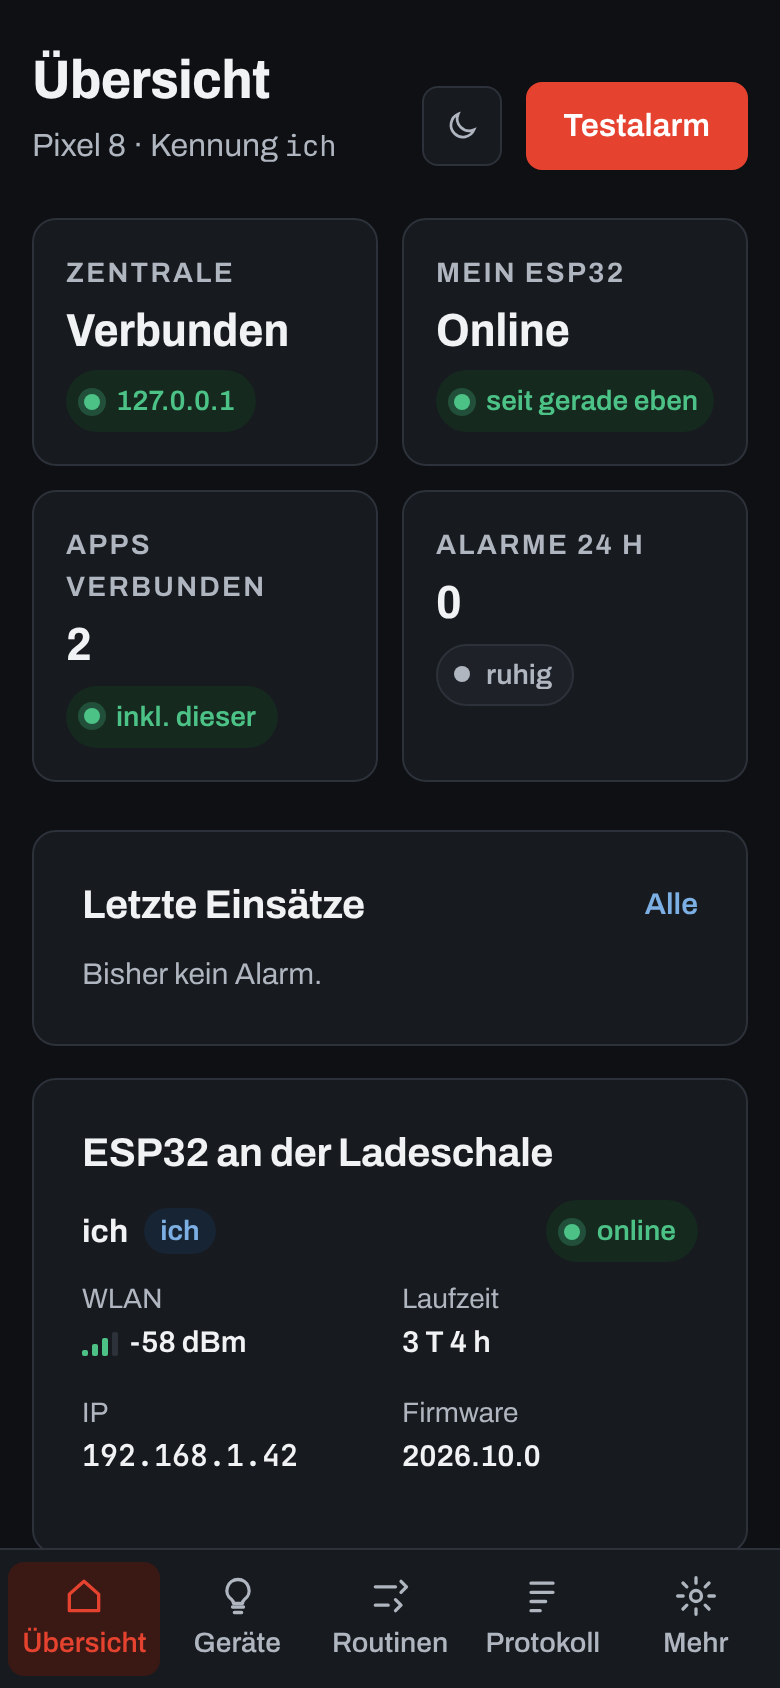
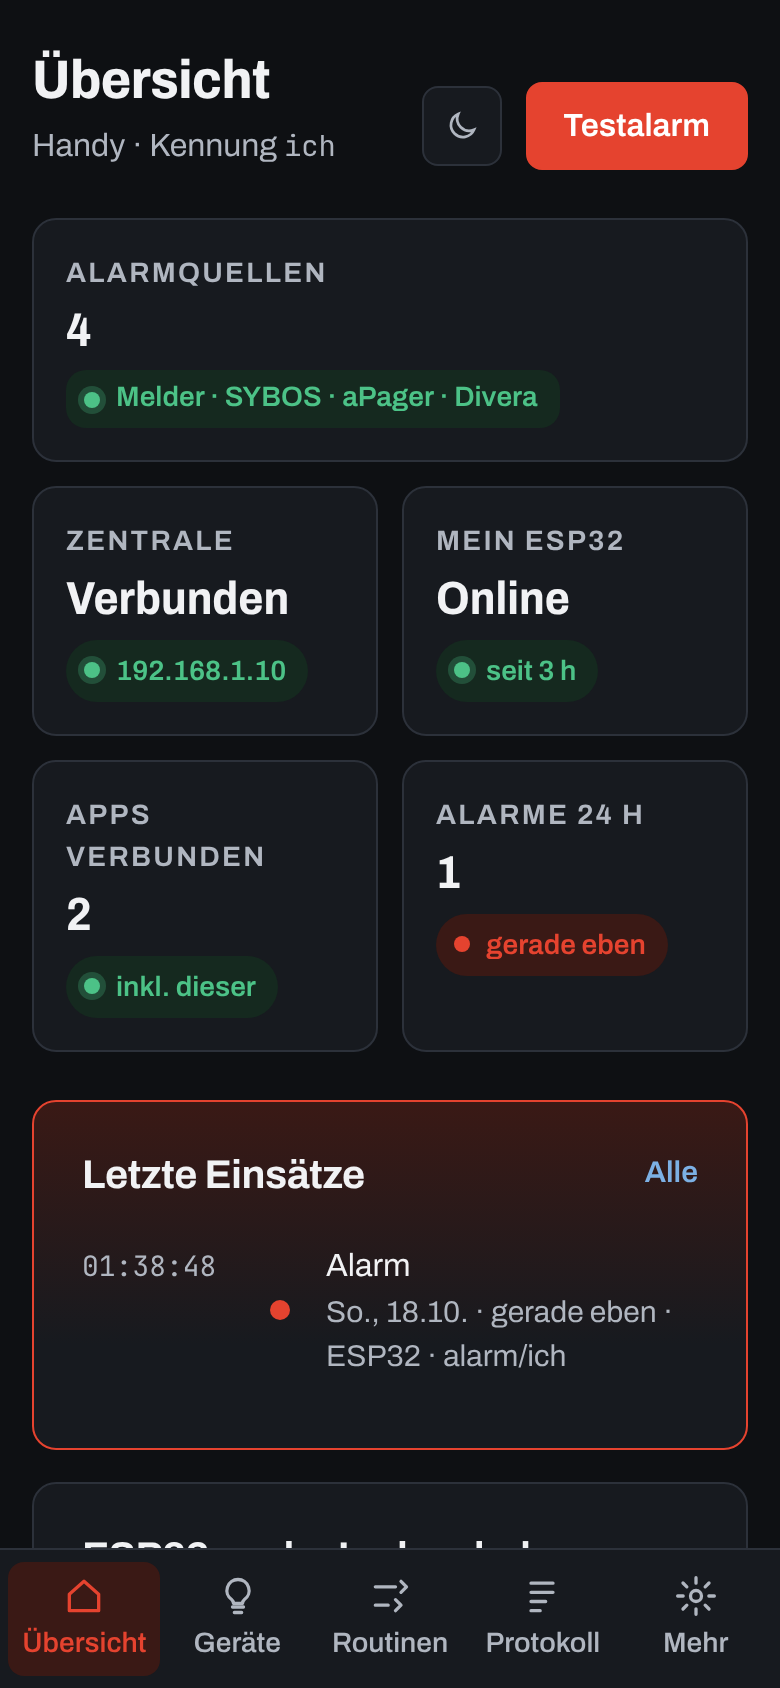
README neu: Ablaufgrafik, Funktionen, Installation, Entwickeln-Grafik; aktuelle Screenshots; Kacheln passen sich an
Claude-Session: https://claude.ai/code/session_01JYYAoFyVYRx5G4qfdyaN7t

diff --git a/app/src/styles/components.css b/app/src/styles/components.css
@@ -75,12 +75,12 @@
 @media (max-width: 760px) { .toast { bottom: calc(88px + env(safe-area-inset-bottom)); } }
 
 /* ── Dashboard ───────────────────────────────── */
-.tiles { display: grid; gap: var(--s3); grid-template-columns: repeat(4, minmax(0, 1fr)); }
+.tiles { display: grid; gap: var(--s3); grid-template-columns: repeat(auto-fit, minmax(min(100%, 180px), 1fr)); }
 .tile { background: var(--surface); border: 1px solid var(--line); border-radius: var(--radius); padding: var(--s4); display: grid; gap: 6px; align-content: start; box-shadow: var(--shadow); min-width: 0; }
 .tile-label { font-size: var(--fs-xs); font-weight: 650; letter-spacing: .08em; text-transform: uppercase; color: var(--text-2); }
 .tile b { font-size: 1.45rem; font-weight: 720; font-variation-settings: "wdth" 90; line-height: 1.15; }
 .tile .chip { justify-self: start; max-width: 100%; overflow: hidden; text-overflow: ellipsis; }
-@media (max-width: 1180px) { .tiles { grid-template-columns: repeat(2, minmax(0, 1fr)); } }
+@media (max-width: 560px) { .tiles { grid-template-columns: repeat(2, minmax(0, 1fr)); } }
 
 .dash { display: grid; gap: var(--s4); grid-template-columns: minmax(0, 1.6fr) minmax(0, 1fr); align-items: start; }
 .dash-main, .dash-side { display: grid; gap: var(--s4); min-width: 0; }
@@ -226,3 +226,6 @@ details.more > .field { margin-top: var(--s3); }
 .source-body .group:first-child { padding-top: 0; }
 .group-cont { margin-top: 0; }
 .nav-item[hidden] { display: none !important; }
+.tile .chip.wrap { white-space: normal; line-height: 1.35; }
+.tile .chip.wrap { border-radius: 10px; }
+@media (max-width: 560px) { .tiles > .tile:first-child { grid-column: 1 / -1; } }

diff --git a/app/src/views/overview.js b/app/src/views/overview.js
@@ -49,7 +49,7 @@ function tiles() {
   const alarms24 = getLog("alarm").filter((e) => Date.now() - e.ts < 86400e3).length;
   const src = activeSources();
   return h("div.tiles", {},
-    tile("Alarmquellen", src.length ? String(src.length) : "Keine", chip(src.length ? "ok" : "", src.length ? src.join(" · ") : "nicht eingerichtet")),
+    tile("Alarmquellen", src.length ? String(src.length) : "Keine", h("span.chip.wrap" + (src.length ? ".ok" : ""), {}, src.length ? src.join(" · ") : "nicht eingerichtet")),
     has.pi() && tile("Zentrale", state.connected ? "Verbunden" : isConfigured() ? "Getrennt" : "Fehlt",
       state.connected ? chip("ok", s.broker.host || "aktiv") : chip(isConfigured() ? "bad" : "", isConfigured() ? "nicht erreichbar" : "nicht eingerichtet")),
     has.esp() && tile("Mein ESP32", !dev || dev.online === null ? "Kein Signal" : dev.online ? "Online" : "Offline",

diff --git a/README.md b/README.md
@@ -7,15 +7,13 @@
 
 ## Was ist Heimalarm?
 
-Heimalarm ist für Einsatzkräfte der Feuerwehr gedacht, die zuhause alarmiert werden. Wenn der Melder in der Ladeschale auslöst, reagiert das Zuhause mit:
+Heimalarm ist für Einsatzkräfte, die zuhause alarmiert werden – egal ob Feuerwehr, Rettungsdienst, THW oder Katastrophenschutz. Wenn der Alarm kommt, reagiert das Zuhause mit:
 
 - **PC:** Ein Vollbild fragt „Fährst du?“. Ohne Gegenrede geht der PC in den Ruhezustand – offene Programme bleiben erhalten.
-- **Licht & Geräte:** Routinen schalten z. B. nachts das Flurlicht gedimmt an.
-- **Handy:** Benachrichtigung, Übersicht und Steuerung von unterwegs im Heimnetz.
-- **Alarm-Apps:** SYBOS, aPager PRO und Divera 24/7 als zusätzliche Quellen – auch mehrere gleichzeitig. Bei Divera setzt „Ich fahre“ auf Wunsch deinen Status.
-- **Alexa & Google Home:** Alarm startet Routinen (z. B. Ansage auf allen Lautsprechern), Zigbee-Licht per Sprache – lokal über Matter.
+- **Handy:** Meldung mit Stichwort und Adresse, Rückmeldung mit einem Tipp.
+- **Licht & Sprachassistenten:** Nachts geht das Flurlicht gedimmt an, Alexa oder Google sagen „Einsatz!“ an.
 
-Alles läuft lokal im Heimnetz, ohne Cloud und ohne laufende Kosten. Der Melder bleibt die eigentliche Alarmierung – Heimalarm ist eine Komfortfunktion.
+Alles läuft lokal im Heimnetz, ohne Cloud und ohne laufende Kosten. Melder und Alarm-App bleiben die eigentliche Alarmierung – Heimalarm ist eine Komfortfunktion.
 
 <p align="center">
   <img src="docs/screenshots/pc-uebersicht.png" width="68%" alt="Übersicht am PC">
@@ -24,56 +22,89 @@ Alles läuft lokal im Heimnetz, ohne Cloud und ohne laufende Kosten. Der Melder 
 
 ## So funktioniert es
 
-```
-Melder (Ladeschale) ──► ESP32 ──► Zentrale (Mosquitto + Dienst) ──► Heimalarm (PC / Handy)
-                                         └──► Zigbee2MQTT ──► Licht & Geräte
-```
+<p align="center"><img src="docs/ablauf.svg" width="100%" alt="Ablauf: Melder und Alarm-Apps melden an die Zentrale, die PC, Handy, Licht und Sprachassistenten auslöst"></p>
 
-1. Ein **ESP32** liest den Relaiskontakt der Ladeschale und meldet `alarm/<kennung>`.
-2. Die **Zentrale** (z. B. Raspberry Pi) verteilt die Meldung und führt Routinen aus.
-3. **Heimalarm** am PC fragt „Fährst du?“, am Handy kommt eine Benachrichtigung.
+1. **Alarm kommt an** – über den Melder in der Ladeschale (ein ESP32 liest den Kontakt) und/oder über die Alarm-App am Handy.
+2. **Die Zentrale** (Raspberry Pi) verteilt den Alarm und führt Routinen aus – auch wenn PC und Handy aus sind.
+3. **Zuhause passiert**, was du eingestellt hast.
 
-## Inhalt
+Ohne Zentrale geht es auch: Mit SYBOS, aPager oder Divera allein arbeitet die App direkt auf Handy und PC.
 
-| Ordner | Was |
+## Funktionen
+
+| | |
 |---|---|
-| `app/` | App für Windows und Android (Tauri 2, HTML/CSS/JS) |
-| `esp32/` | ESPHome-Konfiguration für den ESP32 |
-| `zentrale/` | Docker-Setup: Mosquitto, Heimalarm-Dienst, Zigbee2MQTT |
-| `docs/` | Konzept (PDF), Logo, Bildschirmfotos |
+| **Alarmquellen** | Melder (ESP32), SYBOS, aPager PRO, Divera 24/7 – auch mehrere gleichzeitig. Doppelte Meldungen werden zu einem Einsatz. |
+| **„Fährst du?“ am PC** | Vollbild mit Countdown und Ton. Danach Ruhezustand, Sperren, Herunterfahren oder nichts. Ausnahmen (z. B. bei laufendem OBS), Ruhezeiten, Medien stoppen. |
+| **Rückmeldung** | „Ich fahre / nicht“ geht an Divera (Rückmeldung und Status) und aPager (Zu-/Absage). |
+| **Divera-Status** | Eigenen Status in der Übersicht mit einem Tipp setzen, optional automatisch zurücksetzen. |
+| **Licht & Geräte** | Zigbee-Geräte anlernen und steuern, ohne Hersteller-Cloud. |
+| **Routinen** | Wenn Alarm, Uhrzeit oder Gerät → Licht, Gruppen, Verzögerung, „Wieder da“. Bedingungen wie Nacht, dunkel, Wochentag, Stichwort. Pro Person. |
+| **Alexa & Google Home** | Alarm startet Routinen (Ansage, Licht). Zigbee-Licht per Sprache. Lokal über Matter. |
+| **Mehrere Personen** | Jede Person mit eigener Kennung, eigenen Routinen und eigenem Melder. |
+| **Übersicht** | Zeigt nur, was eingerichtet ist: Quellen, Zentrale, Melder, Geräte, letzte Einsätze. |
+| **Test & Diagnose** | Testalarm, Kontakt simulieren, Komplettprobe, Verbindungstest, wöchentlicher Selbsttest. |
+| **Sicher & privat** | Alles im Heimnetz. App-PIN, Admin-PIN, API-Schlüssel bleiben auf dem Gerät. |
+| **Bedienung** | Dunkel (Standard) und hell, PC und Handy gleich, Einstellungen gleichen sich ab. |
 
-Details, Regeln und Funktionsliste: **[Context.md](Context.md)**
+## Installation & Einrichtung
 
-## Einrichten
+**Was du brauchst:** Heimalarm auf PC (Windows) und/oder Handy (Android). Für Melder, Licht und Sprachassistenten zusätzlich einen Raspberry Pi und einen ESP32.
 
-**1 · Zentrale** (Raspberry Pi mit Docker)
+**1 · App installieren**
+Installer (`.exe`) bzw. APK aus den [Releases](../../releases) laden und installieren.
+
+**2 · Alarmquellen wählen**
+In der App unter *Einstellungen → Alarmquellen* einschalten, was du nutzt:
+- **SYBOS / aPager / Divera:** Am Handy „Benachrichtigungen mitlesen“ erlauben. Für Divera bzw. aPager optional den persönlichen API-Schlüssel eintragen – dann klappt auch die Rückmeldung.
+- **Melder:** braucht Zentrale und ESP32 (Schritt 3 und 4).
+
+**3 · Zentrale (optional)** – Raspberry Pi mit Docker
 ```bash
 cd zentrale
-docker compose up -d                     # ohne Zigbee
-docker compose --profile zigbee up -d    # mit Zigbee-USB-Stick
-docker compose --profile zigbee --profile matter up -d   # dazu Licht für Alexa / Google Home
+docker compose up -d                                     # Grundausstattung
+docker compose --profile zigbee up -d                    # mit Zigbee-USB-Stick
+docker compose --profile zigbee --profile matter up -d   # dazu Licht für Alexa / Google
 ```
+Dann in der App unter *Einstellungen → Verbindung* die IP des Pi eintragen.
 
-**2 · ESP32**
-1. `esp32/secrets.example.yaml` nach `secrets.yaml` kopieren und ausfüllen.
+**4 · ESP32 (optional)**
+1. `esp32/secrets.example.yaml` nach `secrets.yaml` kopieren und WLAN-Daten eintragen.
 2. Kontakt der Ladeschale messen, dann Pol A an `GPIO27`, Pol B an `GND`.
 3. `esp32/alarm-ich.yaml` über [web.esphome.io](https://web.esphome.io) flashen.
 
-**3 · App**
-Installer bzw. APK aus den [Releases](../../releases) laden, unter *Einstellungen → Verbindung* die IP der Zentrale eintragen und *Testalarm* drücken.
+**5 · Testen**
+*Einstellungen → Test & Diagnose → Testalarm.* Es passiert nichts Echtes, du siehst nur die Abfrage.
+
+Ausführlich mit Bildern: [Konzept (PDF)](docs/Konzept.pdf)
 
 ## Entwickeln
 
+<p align="center"><img src="docs/entwickeln.svg" width="100%" alt="Projektteile app, zentrale, esp32 und Release-Ablauf"></p>
+
+**App** (`app/`) – Oberfläche in HTML, CSS und JavaScript, Kern in Tauri 2 (Rust), Android-Teile als Kotlin-Plugin.
 ```bash
-cd app
-npm install
-npm run dev          # Oberfläche im Browser (ohne PC-Funktionen)
-npx tauri dev        # als Desktop-Programm
+cd app && npm install
+npm run dev          # Oberfläche im Browser, ?demo zeigt Beispieldaten
+npx tauri dev        # als Windows-Programm
 npm run lint         # Oxlint
 ```
 
-Ohne Hardware testen (in `zentrale/dienst`, nach `npm install`): `npm run devbroker`, dann `MQTT_URL=mqtt://127.0.0.1:1883 npm start` und `node tools/sim.js` – simuliert ESP32 und Zigbee-Geräte.
+**Zentrale ohne Hardware testen** (`zentrale/dienst/`) – Test-Broker und Simulator für ESP32 und Zigbee-Geräte.
+```bash
+cd zentrale/dienst && npm install
+npm run devbroker                              # Terminal 1
+MQTT_URL=mqtt://127.0.0.1:1883 npm start       # Terminal 2
+node tools/sim.js                              # Terminal 3
+```
+
+**Release** – Tag pushen, GitHub Actions baut `.exe` und `.apk`. Nur Build, keine Selbsttests – damit Bugfix-Releases schnell gehen.
+```bash
+git tag v0.2.0 && git push --tags
+```
+
+Regeln, Topics und Aufbau im Detail: [Context.md](Context.md)
 
 ---
 
-<sub>Ergänzt die Alarmierung, ersetzt sie nicht. Der Melder bleibt maßgeblich.</sub>
+<sub>Ergänzt die Alarmierung, ersetzt sie nicht. Melder und Alarm-App bleiben maßgeblich.</sub>

diff --git a/Context.md b/Context.md
@@ -5,7 +5,7 @@
 
 ## Was ist Heimalarm?
 
-Eine eigene App für **Windows-PC und Android-Handy**, die einen Feuerwehr-Alarm zuhause weitergibt:
+Eine eigene App für **Windows-PC und Android-Handy**, die einen Einsatz-Alarm zuhause weitergibt (Feuerwehr, Rettungsdienst, THW, Katastrophenschutz …):
 
 - Ein **ESP32** liest bei Alarm den Relaiskontakt der Ladeschale des Melders (Motorola TPG2200).
 - Eine kleine **Zentrale** im Heimnetz (Raspberry Pi mit Mosquitto, später Zigbee2MQTT) verteilt das Signal.
